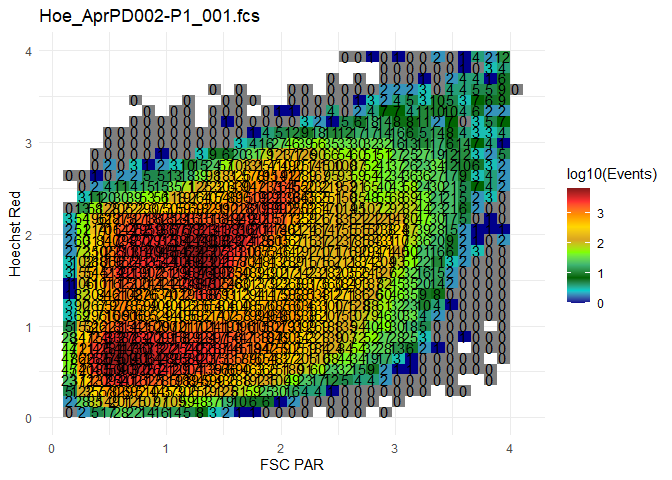
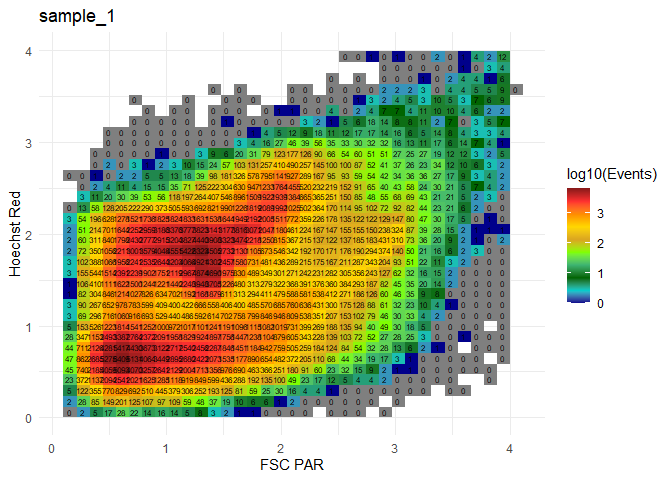
added function exports and updated readme

Changed region(s): [[0.0938, 0.0938, 0.7812, 0.875], [0.0625, 0.0, 0.4062, 0.0625]]

diff --git a/README.md b/README.md
@@ -46,8 +46,13 @@ setwd("C:/Users/jonas/Documents/IUF/FACSDATA/testExp/fcs")
 
 #for reading fcs files. Installation via Bioconductor. https://www.bioconductor.org/packages/release/bioc/html/flowCore.html
 library(flowCore)
+#> Warning: package 'flowCore' was built under R version 4.0.3
 
 fcs <- read.flowSet(pattern = ".fcs")
+```
+
+``` r
+setwd("C:/Users/jonas/Documents/IUF/FACSDATA/testExp/fcs")
 metadata <- read.csv2("metadata.csv")
 
 #Create the FSFTemplate
@@ -60,7 +65,7 @@ template <- FSFTemplate(flowset = fcs, channels = c("FSC PAR", "Hoechst Red"), r
 plot(template = template, sample = 1)
 ```
 
-<img src="man/figures/README-example-1.png" width="100%" />
+<img src="man/figures/README-exampl-1.png" width="100%" />
 
 ``` r
 
@@ -70,7 +75,9 @@ distM <- weightedBray(template)
 
 #for community ecology statistics
 library(vegan)
+#> Warning: package 'vegan' was built under R version 4.0.3
 #> Loading required package: permute
+#> Warning: package 'permute' was built under R version 4.0.3
 #> Loading required package: lattice
 #> This is vegan 2.5-6
 
@@ -82,11 +89,13 @@ adonis2(distM ~ treatment + age, data = metadata)
 #> Number of permutations: 999
 #> 
 #> adonis2(formula = distM ~ treatment + age, data = metadata)
-#>           Df SumOfSqs      R2      F Pr(>F)
-#> treatment  1  0.09713 0.07966 0.8612  0.609
-#> age       10  0.89666 0.73536 0.7950  0.859
-#> Residual   2  0.22556 0.18499              
-#> Total     13  1.21935 1.00000
+#>           Df SumOfSqs      R2      F Pr(>F)  
+#> treatment  1  0.09198 0.07543 1.2956  0.215  
+#> age       10  0.98540 0.80813 1.3881  0.085 .
+#> Residual   2  0.14198 0.11644                
+#> Total     13  1.21935 1.00000                
+#> ---
+#> Signif. codes:  0 '***' 0.001 '**' 0.01 '*' 0.05 '.' 0.1 ' ' 1
 ```
 
 ## Plotting
@@ -94,6 +103,8 @@ adonis2(distM ~ treatment + age, data = metadata)
 ``` r
 #plot a flowCore flowFrame with a flexible resolution and transformation function
 plotFF(flowFrame = fcs[[1]], channels = c("FSC PAR", "Hoechst Red"), resolution = 250, transformation = asinh)
+#> Warning: Raster pixels are placed at uneven vertical intervals and will be
+#> shifted. Consider using geom_tile() instead.
 ```
 
 <img src="man/figures/README-Plotting-1.png" width="100%" />
@@ -110,14 +121,14 @@ plot(template, sample = 1)
 #add info to the plot using the ggplot2 library
 library(ggplot2)
 #add tbe total number of events in each bin for sample 1 to the plot
-plot(template, sample = 1) + geom_text(aes(label = template@counts[,1]))
+plot(template, sample = 1) + geom_text(aes(label = template@counts[,1]), size = 2)
 ```
 
 <img src="man/figures/README-Plotting-3.png" width="100%" />
 
 ``` r
 #add the bin number to each bin
-plot(template, sample = 1) + geom_text(aes(label = 1:template@nBins))
+plot(template, sample = 1) + geom_text(aes(label = 1:template@nBins), size = 2)
 ```
 
 <img src="man/figures/README-Plotting-4.png" width="100%" />
